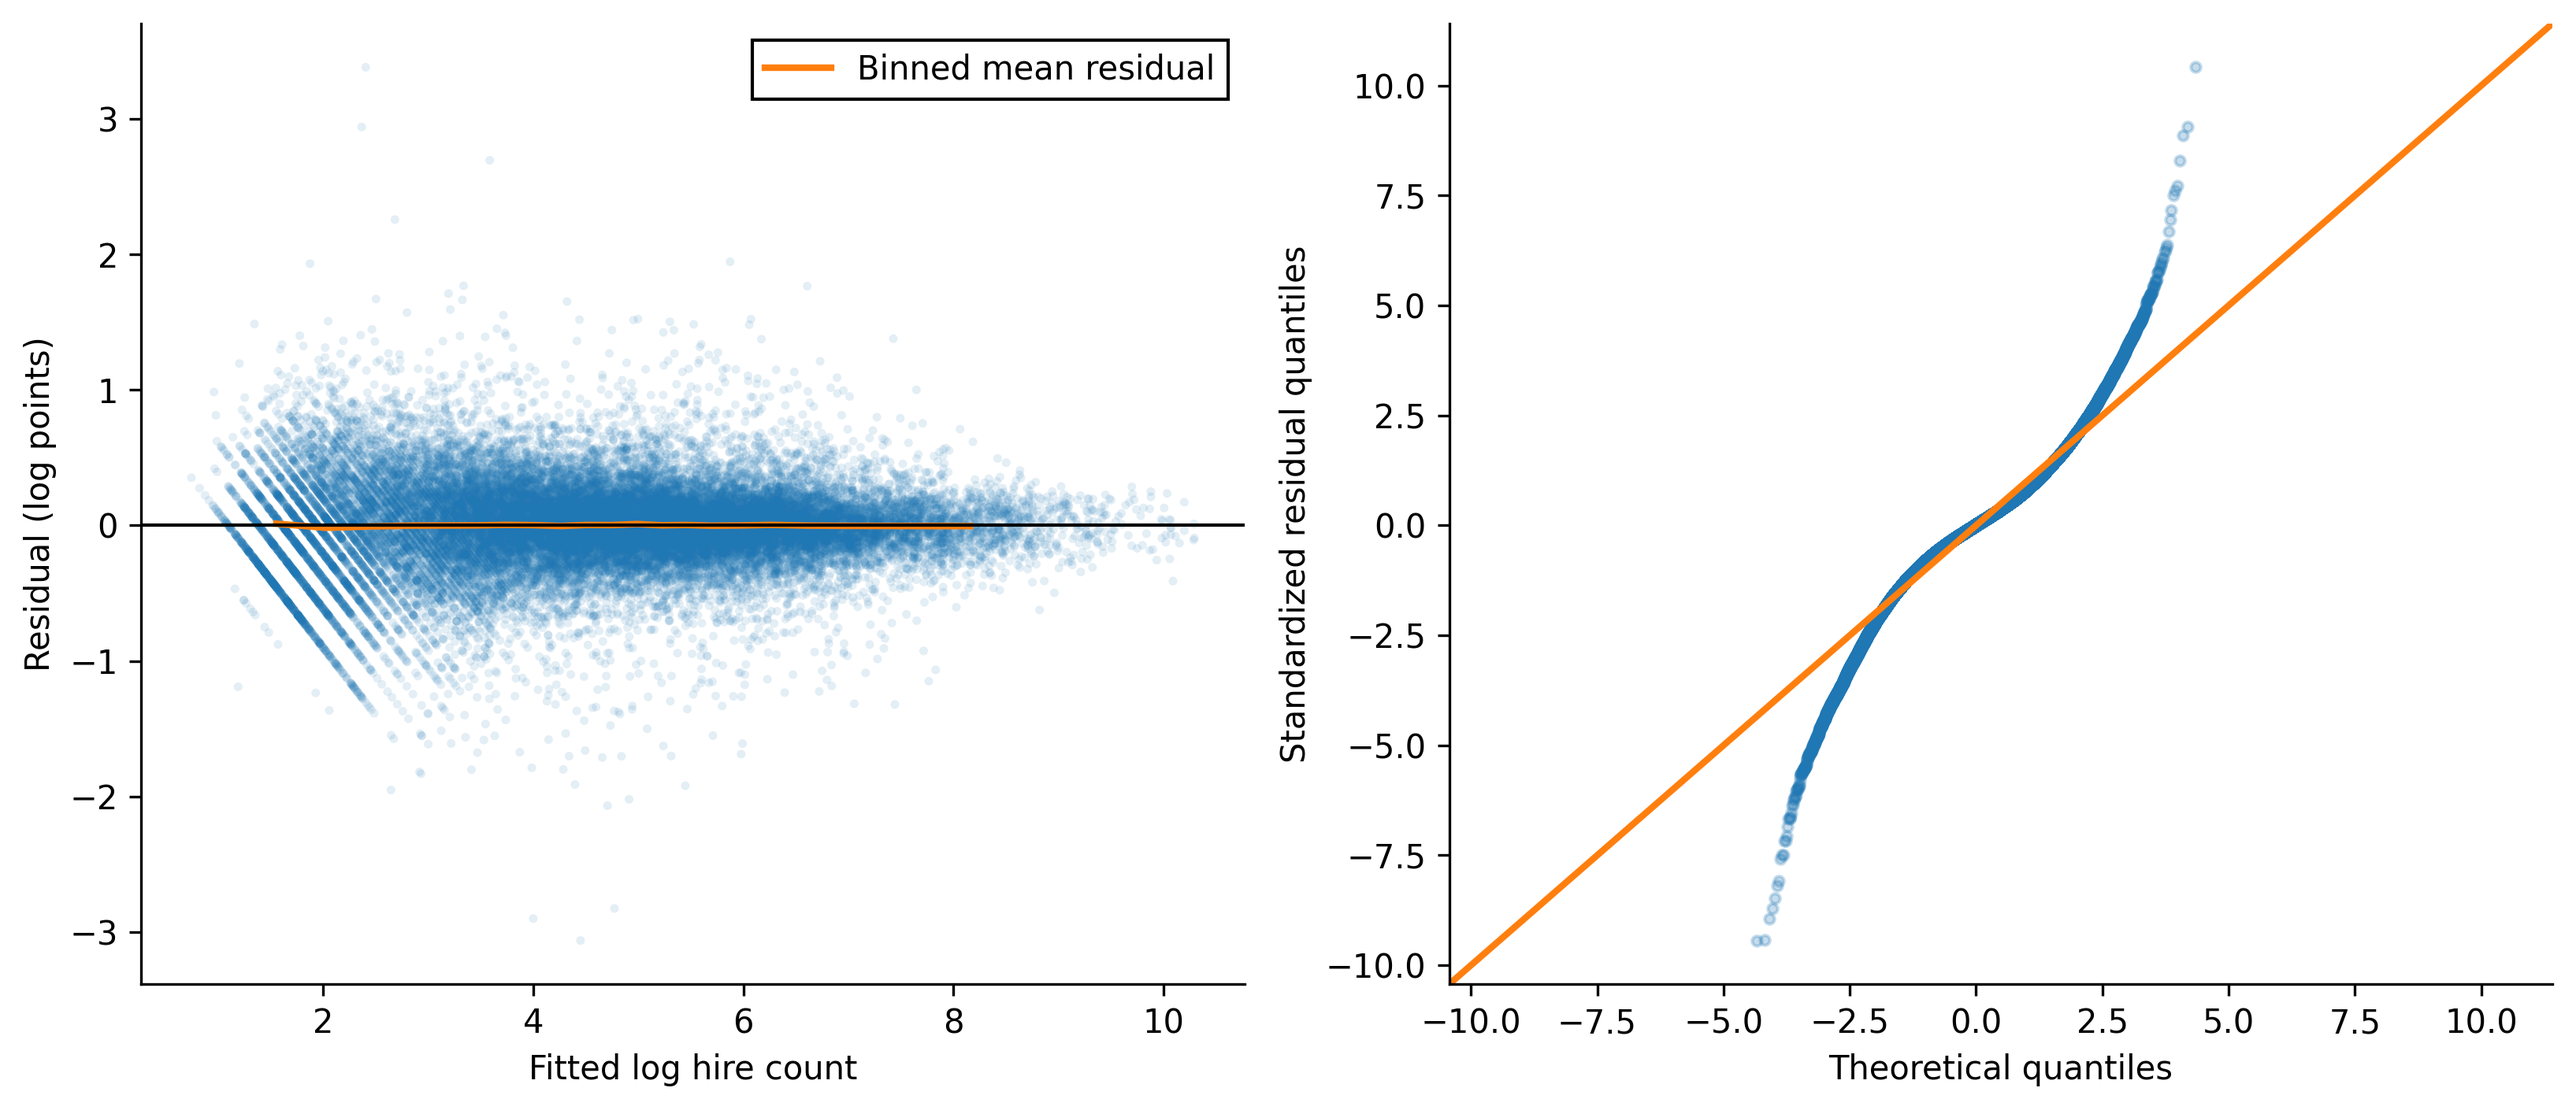
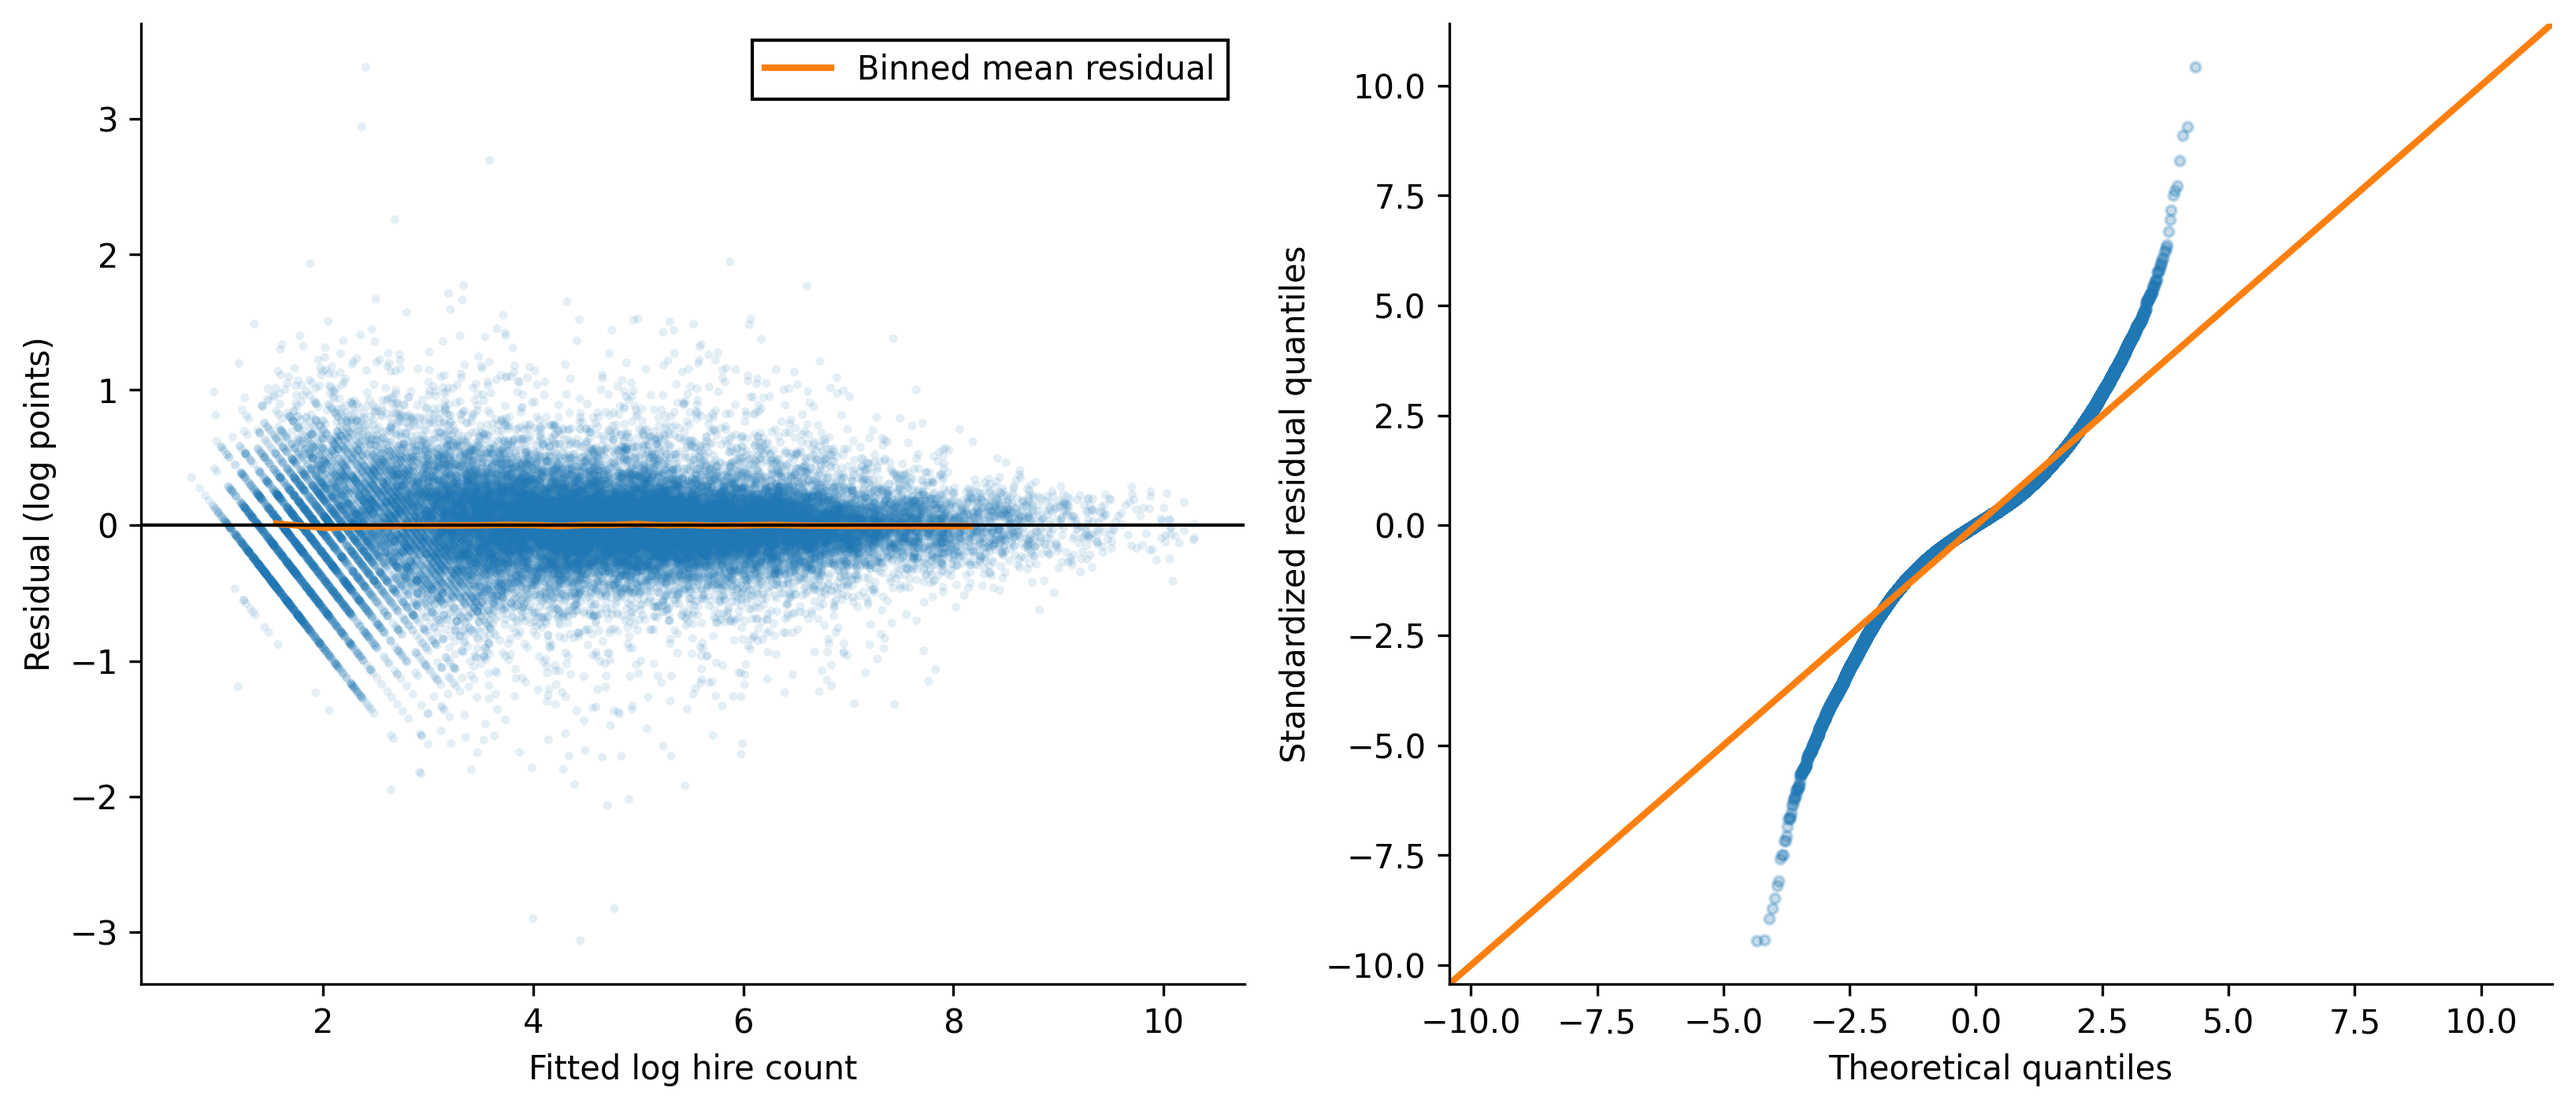
Rerun notebook for newest figures

Changed region(s): [[0.8113, 0.9362, 0.8425, 0.9674], [0.7489, 0.9362, 0.7801, 0.9674], [0.5616, 0.905, 0.5928, 0.9362]]

diff --git a/README.md b/README.md
@@ -46,7 +46,9 @@ Which methods or models will you use?
 - Model diagnostics show heavy-tailed residuals, but the initial conclusion is not driven by a small number of extreme observations
 - Secondary-outcome, event-study, and industry-seasonality analyses are complete
 - Small-cell, employment-trend-validation, exposure-coverage, clustering, and industry-influence checks are complete
-- The remaining research work is to consolidate the final tables and write the results and limitations sections
+- The same-quarter timing comparison and rate-count-employment decomposition are complete
+- Paper-ready results tables and a full working manuscript are available under `writing/`
+- The remaining work is substantive revision, advisor feedback, and final formatting
 
 ## Expected Timeline
 
@@ -70,7 +72,7 @@ What do you expect to produce every week?
 - `data/processed/`: Final analysis data
 - `tests/`: Unit tests for the data-preparation programs
 
-The data folders are stored locally and excluded from Git. The researcher runs the notebook and creates every Git commit.
+The data folders are stored locally and excluded from Git. The researcher runs and verifies the notebooks, and repository commits are created only at the researcher's direction.
 
 ## Project Workflow
 
@@ -111,6 +113,7 @@ See [code/README.md](code/README.md) for the required local ACS and crosswalk fi
 - Missing and Census-suppressed observations remain missing rather than being replaced with zero.
 - The primary estimates are interpreted as associations, not causal effects.
 - The hiring-rate conclusion is stable across the final sensitivity checks; the negative hire-count relationship remains suggestive because its statistical significance varies across specifications.
+- The negative hire-count estimate is accounted for mainly by a smaller young-worker employment base rather than a persistently lower reconstructed hiring rate.
 - The initial research-design PDF proposed four-digit industries and a linear primary employment trend. Data diagnostics led to the documented use of three-digit industries and a log-linear primary trend.
 
 ## Code Checks
